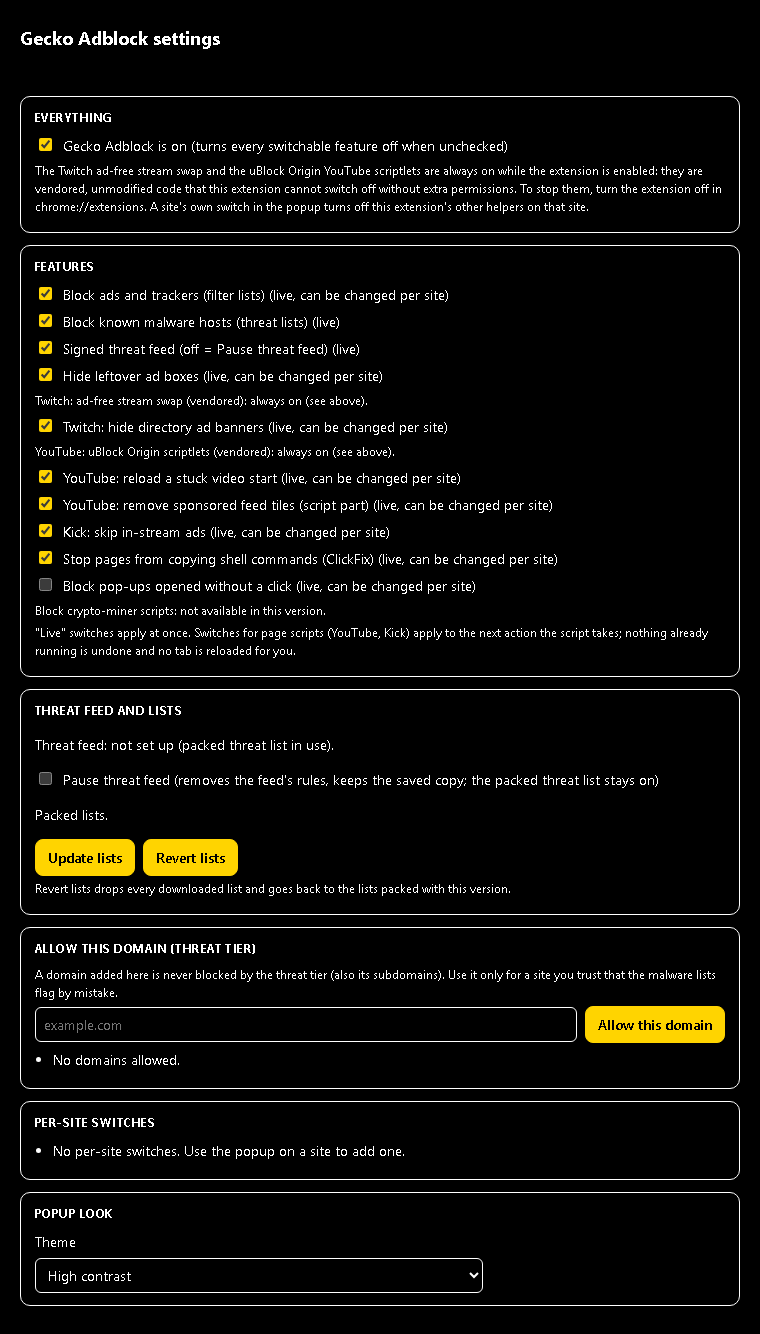
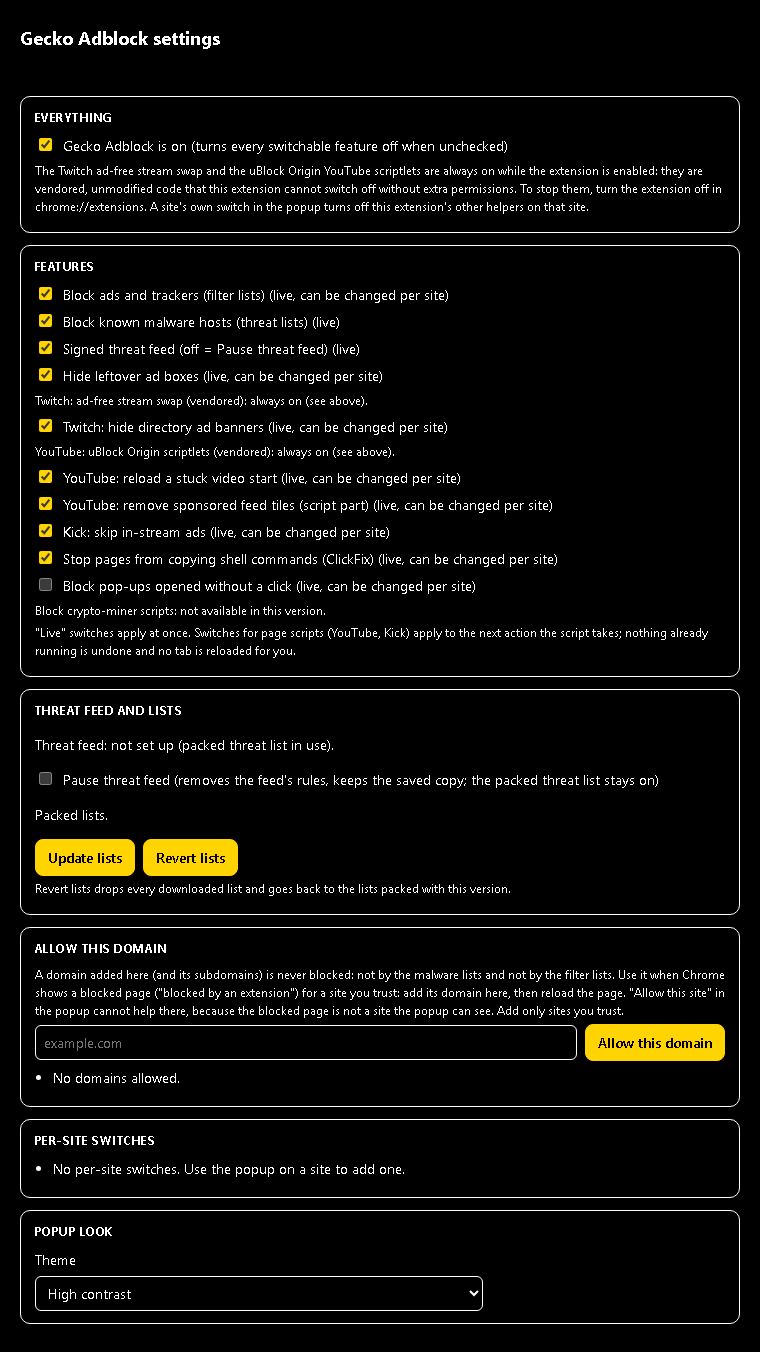
Refresh the settings screenshots and the counts after the review fixes
The settings screenshots still showed the old "(threat tier)" allow box;
re-rendered with the real extension (popup shots unchanged). CHANGELOG
and how-it-works now name the five exempt redirectors and the 5,480
scoped entries of the rebuilt pack.

diff --git a/CHANGELOG.md b/CHANGELOG.md
@@ -6,9 +6,9 @@
 - Popup aligned with the picked mockups: larger header icon and text, purple-bordered "Something broke?" card, "Block again" outlined in purple, "Show more" with a chevron; high contrast shows the gecko white and rings the yellow buttons. The settings page now uses the same purple / high-contrast / forced-colours themes. Review screenshots in `docs/design/screenshots/`.
 - Filter lists: a `$document` filter now blocks opening that site even when another list also blocks it as a whole domain (about 500 ad servers such as a-ads.com opened when visited directly).
 - Filter lists: filters with only negated types (`$~script`, `$~stylesheet,third-party`, ...) no longer block opening the site (e.g. prime.rambler.ru, or eloqua.com / exacttarget.com links followed from another site); they still block the page parts they name.
-- Filter lists: Twitch / YouTube / Kick and their player hosts, and four affiliate redirectors people click on purpose (Skimlinks redirectingat.com, impact.com ojrq.net, Involve Asia invol.co, Adtraction), never get a "block opening this site" rule from the ordinary lists; their other rules stay.
+- Filter lists: Twitch / YouTube / Kick and their player hosts, and five redirectors people click on purpose (affiliate links: Skimlinks redirectingat.com, impact.com ojrq.net, Involve Asia invol.co, Adtraction; deal links: linksprf.com), never get a "block opening this site" rule from the ordinary lists; their other rules stay.
 - Settings: "Allow this domain" now also opens a page the filter lists block (the way out of Chrome's "blocked by an extension" page for a site you trust).
-- Filter lists repacked again on 2026-11-03 (20:37Z) with these fixes: 187,014 whole-domain + 5,481 scoped entries in 2,439 list rules (2,444 rules in `general-network.json`).
+- Filter lists repacked again on 2026-11-03 (20:37Z) with these fixes: 187,014 whole-domain + 5,480 scoped entries in 2,439 list rules (2,444 rules in `general-network.json`).
 
 - Rules: every writer of blocking rules (list refresh, the lists switch and Allow this site, Revert lists, the malware-tier switch, Allow this domain, the threat feed) now takes turns in one queue, so two of them can no longer write the same rule ids at once; that used to make Chrome reject the second write and drop refreshed lists back to the packed ones. List downloads do not hold the queue, so a click never waits for the network.
 - Filter lists repacked on 2026-11-03: the packed general ruleset no longer holds the public suffix `pisz.pl` or the address `0.0.0.1`. Now 186,987 whole-domain + 4,035 scoped entries in 2,421 list rules; the packed threat ruleset holds 15,913 hosts in 199 rules.

diff --git a/docs/how-it-works.md b/docs/how-it-works.md
@@ -37,7 +37,7 @@ Covers `kick.com` and subdomains.
 Covers other http and https sites. The README and the popup call these "ordinary sites".
 
 - `declarativeNetRequest` blocks domains from the packed lists, and `src/cosmetic.js` hides leftover ad boxes.
-- The packed snapshot in `src/rules/meta.json` is 187,014 whole-domain and 5,481 scoped entries in 2,439 rules (packed 2026-11-03 20:37 UTC).
+- The packed snapshot in `src/rules/meta.json` is 187,014 whole-domain and 5,480 scoped entries in 2,439 rules (packed 2026-11-03 20:37 UTC).
 - A site is blocked from opening (Chrome shows "blocked by an extension") only when a list says so with an explicit `$document` filter, or when it is a known malware host (the threat tier). A whole-domain entry blocks the site's pieces inside other pages, not opening it. Filters that name only types to skip (`$~script`) never block opening the site. Twitch, YouTube, Kick and their player hosts, and a few affiliate redirectors people click on purpose, are never blocked from opening by the lists. To open such a page anyway: settings page -> **Allow this domain** ([Allow a site](allow-a-page.md#a-page-chrome-says-is-blocked)).
 - Twitch, YouTube (including `youtu.be`, nocookie, Kids, and the video CDNs), and Kick are excluded from this general pass.
 - Ordinary-site blocking starts **on**.
